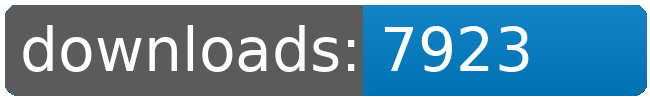
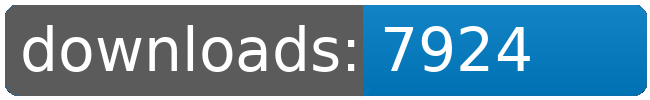
dl log written

Changed region(s): [[0.7692, 0.24, 0.8308, 0.72]]

diff --git a/README.md b/README.md
@@ -43,8 +43,8 @@
 		<td>7871</td>
 		<td>7888</td>
 		<td>7908</td>
-		<td>7923</td>
-		<td>+ 15</td>
+		<td>7924</td>
+		<td>+ 16</td>
 	</tr>
 	<tr>
 		<td>Jaws</td>
@@ -120,8 +120,8 @@
 		<td></td>
 		<td></td>
 		<td></td>
-		<td>55721</td>
-		<td>104</td>
+		<td>55722</td>
+		<td>105</td>
 	</tr>
 </table>
 </sub></sup>
@@ -146,8 +146,8 @@
 		<td>7871</td>
 		<td>7888</td>
 		<td>7908</td>
-		<td>7923</td>
-		<td>+ 15</td>
+		<td>7924</td>
+		<td>+ 16</td>
 	</tr>
 	<tr>
 		<td>Bunsen.Burner</td>
@@ -245,8 +245,8 @@
 		<td></td>
 		<td></td>
 		<td></td>
-		<td>55721</td>
-		<td>104</td>
+		<td>55722</td>
+		<td>105</td>
 	</tr>
 </table>
 </sub></sup>
